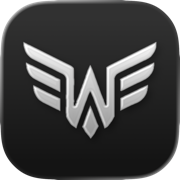
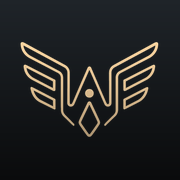
Adopt the app's gold wings mark and align controls with the iOS app
Pull the brand mark and control shapes from the Wingman iOS app so the
site matches the shipping screens:

- Replace the silver tile logo with the app's gold outline wings
  (transparent mark for nav, footer and hero card, as the app's Home
  header uses it); regenerate favicon, Apple touch icon and the 1024px
  master as a dark tile with the wings at 85%, matching the app icon
- Re-render og-image.png with the new mark
- Buttons become gold capsules (the app's WmPillStyle); secondary is a
  clear capsule with a mid border
- Segmented control uses the app's 13px / 10px radii
- Badges mirror WmPill: danger tint + border, gold-outline neutral pill
- Big numbers use Geist Mono Light with -0.04em; the weigh-in number is
  gold, as on the app's share card
- Hero weigh-in card head shows the mark next to the eyebrow

Claude-Session: https://claude.ai/code/session_01BJvjtngVUZVSpUfgzWqhwb

diff --git a/assets/css/style.css b/assets/css/style.css
@@ -212,7 +212,7 @@ ul { list-style: none; }
   gap: var(--space-2);
   height: var(--control-h-md);
   padding: 0 18px;
-  border-radius: var(--radius-md);
+  border-radius: var(--radius-pill);
   border: 1px solid transparent;
   font-family: var(--font-sans);
   font-size: 14px;
@@ -230,7 +230,7 @@ ul { list-style: none; }
     color var(--dur-normal) var(--ease-out);
 }
 .btn:active { transform: scale(0.98); }
-.btn:focus-visible { border-radius: var(--radius-md); }
+.btn:focus-visible { border-radius: var(--radius-pill); }
 
 .btn-primary,
 .btn-sm {
@@ -245,12 +245,12 @@ ul { list-style: none; }
 }
 
 .btn-secondary {
-  background: var(--slate-800);
-  color: var(--text-primary);
-  border-color: var(--border-default);
+  background: transparent;
+  color: var(--text-secondary);
+  border-color: rgba(255, 255, 255, 0.12);
 }
 .btn-secondary:hover {
-  background: var(--slate-700);
+  background: rgba(255, 255, 255, 0.05);
   border-color: var(--border-strong);
   color: var(--text-primary);
 }
@@ -322,7 +322,7 @@ ul { list-style: none; }
   letter-spacing: -0.01em;
   color: var(--text-primary);
 }
-.nav-logo img { border-radius: var(--radius-sm); }
+.nav-logo img { width: 36px; height: 36px; }
 
 .nav-links {
   display: flex;
@@ -441,7 +441,14 @@ ul { list-style: none; }
   display: flex;
   align-items: center;
   justify-content: space-between;
+  gap: var(--space-3);
 }
+.wc-brand {
+  display: flex;
+  align-items: center;
+  gap: 7px;
+}
+.wc-brand img { width: 26px; height: 26px; }
 
 .badge {
   display: inline-flex;
@@ -455,9 +462,10 @@ ul { list-style: none; }
   letter-spacing: 0.06em;
   text-transform: uppercase;
 }
-.badge-cut { background: var(--danger-soft); color: var(--danger-text); }
-.badge-gain { background: var(--success-soft); color: var(--success-text); }
-.badge-neutral { background: var(--slate-800); color: var(--text-secondary); }
+.badge-cut { background: rgba(181, 100, 90, 0.12); color: var(--danger-text); border: 1px solid rgba(181, 100, 90, 0.4); }
+.badge-gain { background: var(--success-soft); color: var(--success-text); border: 1px solid rgba(110, 154, 114, 0.4); }
+.badge-neutral { background: rgba(251, 219, 172, 0.08); color: var(--gold-500); border: 1px solid rgba(251, 219, 172, 0.35); }
+.badge-mono { font-family: var(--font-mono); }
 
 .wc-body {
   display: flex;
@@ -469,11 +477,11 @@ ul { list-style: none; }
 .wc-number {
   font-family: var(--font-mono);
   font-variant-numeric: tabular-nums;
-  font-size: 2.75rem;
-  font-weight: var(--fw-medium);
-  letter-spacing: var(--tracking-tight);
+  font-size: 3rem;
+  font-weight: var(--fw-light);
+  letter-spacing: -0.04em;
   line-height: 1;
-  color: var(--text-primary);
+  color: var(--gold-500);
   white-space: nowrap;
 }
 .wc-number .unit { font-size: 16px; font-weight: var(--fw-regular); color: var(--text-tertiary); }
@@ -481,7 +489,7 @@ ul { list-style: none; }
 
 .ring { position: relative; width: 140px; height: 140px; flex-shrink: 0; }
 .ring svg { transform: rotate(-90deg); }
-.ring .track { stroke: var(--slate-800); }
+.ring .track { stroke: rgba(255, 255, 255, 0.08); }
 .ring .bar {
   stroke: var(--gold-500);
   stroke-linecap: round;
@@ -500,7 +508,8 @@ ul { list-style: none; }
   font-family: var(--font-mono);
   font-variant-numeric: tabular-nums;
   font-size: 1.75rem;
-  font-weight: var(--fw-medium);
+  font-weight: var(--fw-light);
+  letter-spacing: -0.03em;
   color: var(--text-primary);
 }
 .ring-label .sub { font-size: 12px; color: var(--text-tertiary); }
@@ -560,15 +569,15 @@ ul { list-style: none; }
   gap: var(--space-1);
   background: var(--bg-surface);
   border: 1px solid var(--border-subtle);
-  border-radius: var(--radius-pill);
-  padding: var(--space-1);
+  border-radius: 13px;
+  padding: 3px;
 }
 .seg-btn {
   border: none;
   cursor: pointer;
   height: 38px;
   padding: 0 var(--space-6);
-  border-radius: var(--radius-pill);
+  border-radius: var(--radius-md);
   font-family: var(--font-sans);
   font-size: 14px;
   font-weight: var(--fw-medium);
@@ -582,7 +591,7 @@ ul { list-style: none; }
 }
 .seg-btn:hover { color: var(--text-primary); }
 .seg-btn:active { transform: scale(0.98); }
-.seg-btn:focus-visible { border-radius: var(--radius-pill); }
+.seg-btn:focus-visible { border-radius: var(--radius-md); }
 .seg-btn.active {
   background: var(--gold-500);
   color: var(--text-on-accent);
@@ -764,8 +773,8 @@ div.phone-slot {
   font-family: var(--font-mono);
   font-variant-numeric: tabular-nums;
   font-size: 3rem;
-  font-weight: var(--fw-medium);
-  letter-spacing: var(--tracking-tight);
+  font-weight: var(--fw-light);
+  letter-spacing: -0.04em;
   line-height: 1;
   color: var(--text-primary);
 }
@@ -795,6 +804,7 @@ div.phone-slot {
 .price-card.featured .badge {
   background: rgba(19, 22, 24, 0.12);
   color: var(--slate-950);
+  border-color: rgba(19, 22, 24, 0.25);
 }
 
 .store-cta {
@@ -1152,7 +1162,7 @@ div.phone-slot {
   flex-direction: column;
   gap: var(--space-3);
 }
-.footer-brand img { border-radius: var(--radius-sm); }
+.footer-brand img { width: 40px; height: 40px; }
 .footer-brand p { color: var(--text-tertiary); font-size: 14px; line-height: 1.5; }
 
 .footer-links { display: flex; gap: var(--space-20); flex-wrap: wrap; }

diff --git a/_includes/hero.html b/_includes/hero.html
@@ -18,7 +18,10 @@
     <div class="hero-card-wrap">
       <div class="weighin-card reveal" data-delay="200">
         <div class="wc-head">
-          <span class="eyebrow">Today's weigh-in</span>
+          <span class="wc-brand">
+            <img src="{{ '/assets/images/wingmanLogo.png' | relative_url }}" alt="" width="26" height="26" aria-hidden="true">
+            <span class="eyebrow">Today's weigh-in</span>
+          </span>
           <span class="badge badge-cut">Cut</span>
         </div>
         <div class="wc-body">
